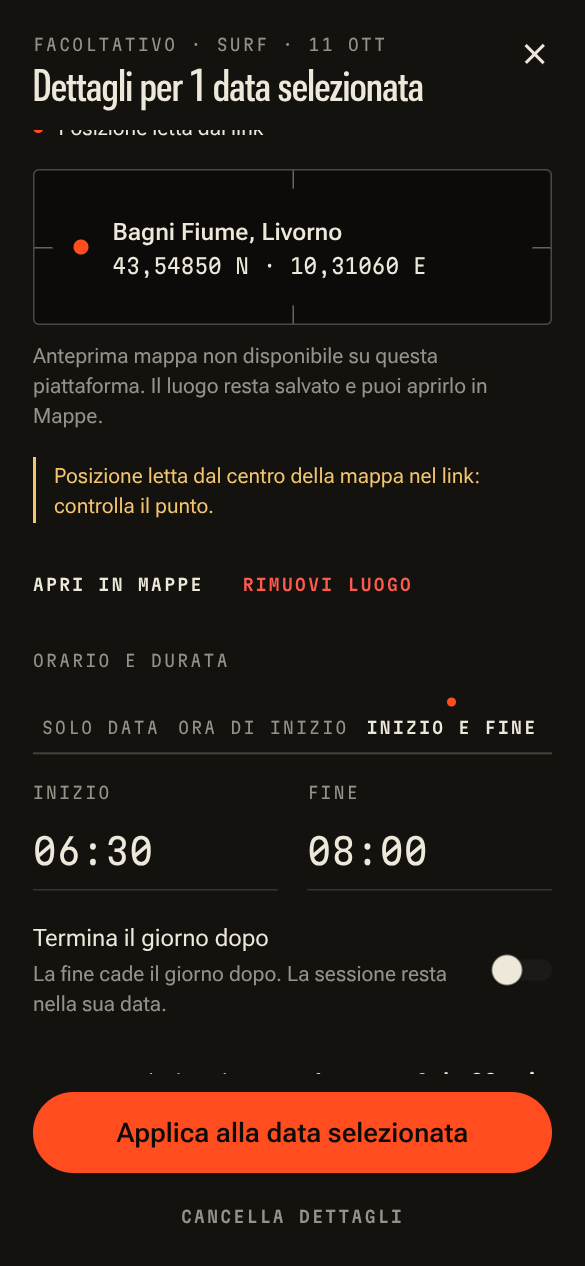
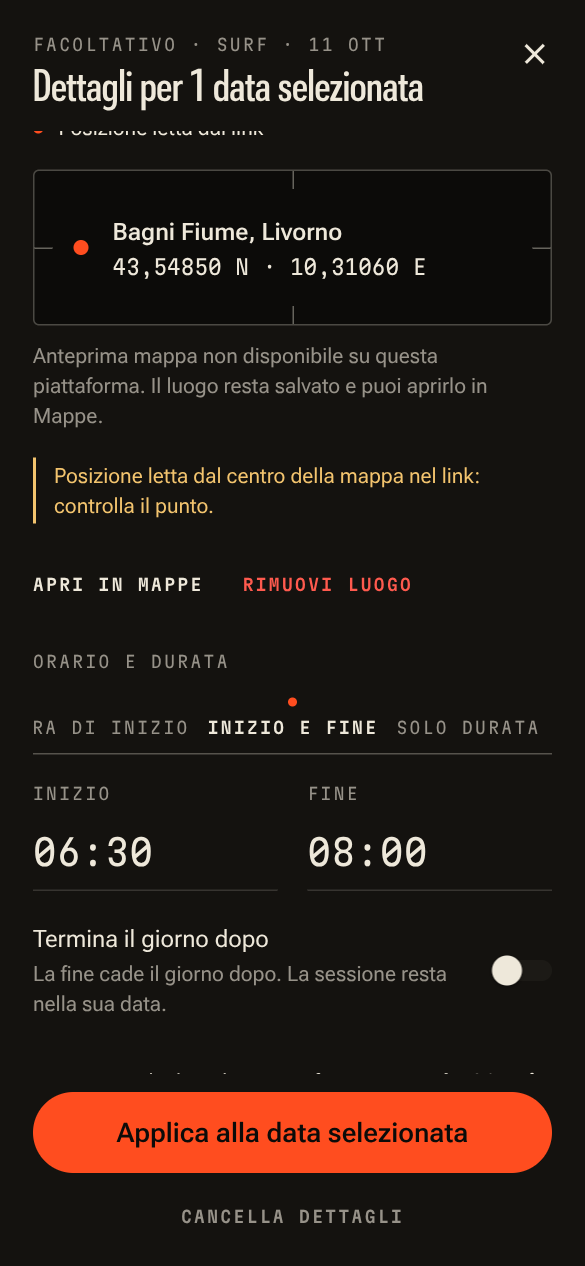
Sheets: fix content sliding under the header/footer on iOS; faster native smoke flows
Found by the first iOS Simulator smoke run: in iOS form sheets the scroll
content started at the sheet's top, under the eyebrow/title, and under the
footer. react-native-screens (Fabric) places a descendant ScrollView at the
sheet origin with the sheet size, regardless of the flex column.

- Sheet: header and footer are opaque overlays; the body fills the sheet and
  its content is padded by their measured heights (SheetInsets context), so
  that frame correction is a no-op on every platform.
- SheetScroll and the import review list pad by the same insets; the review
  filters now scroll with the list (ListHeaderComponent).
- Maestro flows: short settle timeout on taps (the water never settles, taps
  took 10-20 s and the save toast was gone), toast checks optional with the
  saved state asserted right after, Collega tapped only when shown.

Web e2e 30/30 and Jest 777/777 pass; README shots 07/08 regenerated.

Claude-Session: https://claude.ai/code/session_012cNXQNFzC9QbzbVb65tEsm

diff --git a/serie/src/sheets/calendar/ImportWizard.tsx b/serie/src/sheets/calendar/ImportWizard.tsx
@@ -34,7 +34,7 @@ import { newId, nowIso } from '@/platform/ids';
 import { useApp } from '@/state/store';
 import { afterCommit } from '@/state/hooks';
 import { createCategory, focusHistoryMonth, refreshAll, switchActivity } from '@/state/actions';
-import { Sheet, Section, Button, Field, Note, Segmented } from '@/ui/controls';
+import { Sheet, Section, Button, Field, Note, Segmented, WithSheetInsets } from '@/ui/controls';
 import { T } from '@/ui/T';
 import { activityColors, palette, surfaces } from '@/ui/theme';
 import { t } from '@/i18n/it';
@@ -328,59 +328,69 @@ export function ImportWizard() {
           </View>
         }
       >
-        <Steps at={4} of={STEPS} title={t.review} />
-        <View style={{ gap: 10 }}>
-          <Segmented
-            value={scope}
-            onChange={setScope}
-            options={[
-              { key: 'all', label: `Tutti ${scopeCount.all}` },
-              { key: 'new', label: `Nuovi ${scopeCount.new}` },
-              { key: 'review', label: `Da verificare ${scopeCount.review}` },
-              { key: 'excluded', label: `Esclusi ${scopeCount.excluded}` },
-            ]}
-            testID="import-scope"
-          />
-          <View style={styles.countRow}>
-            <T variant="dataStrong" color={S.fg} testID="import-count" accessibilityLiveRegion="polite">
-              {t.selectedCount(totalCounts.selected, totalCounts.selectable)}
-            </T>
-            <Pressable
-              onPress={() => setSelection((s) => (allSelected ? deselectAll(items, s, SCOPES[scope]) : selectAll(items, s, SCOPES[scope])))}
-              disabled={!counts.selectable}
-              accessibilityRole="button"
-              accessibilityLabel={allSelected ? `Deseleziona tutti quelli ${scopeName} (${counts.selectable})` : `Seleziona tutti quelli ${scopeName} (${counts.selectable})`}
-              style={styles.linkBtn}
-              testID="import-select-all"
-            >
-              <T variant="label" color={counts.selectable ? palette.flare : S.faint}>
-                {allSelected ? `DESELEZIONA ${scopeName.toUpperCase()}` : `SELEZIONA ${scopeName.toUpperCase()}`} ({counts.selectable})
-              </T>
-            </Pressable>
-          </View>
-        </View>
-        <FlatList
-          data={visible}
-          keyExtractor={(i) => i.key}
-          style={{ flex: 1, marginHorizontal: -4 }}
-          contentContainerStyle={{ paddingBottom: 24, paddingHorizontal: 4 }}
-          initialNumToRender={14}
-          windowSize={9}
-          ListEmptyComponent={
-            <Note>{items.length ? 'Nessun evento in questo gruppo.' : 'Nessun evento corrisponde: controlla calendari, intervallo e filtri.'}</Note>
-          }
-          renderItem={({ item }) => (
-            <ReviewRow
-              item={item}
-              on={selection.has(item.key)}
-              open={expanded === item.key}
-              color={category?.color ?? palette.flare}
-              matched={item.matchedSessionId ? (sessionById.get(item.matchedSessionId) ?? null) : null}
-              onToggle={() => setSelection((s) => toggleSelected(items, s, item.key))}
-              onExpand={() => setExpanded((k) => (k === item.key ? null : item.key))}
+        {/* the filters scroll with the list: in a form sheet the list must fill the sheet (see Sheet) */}
+        <WithSheetInsets>
+          {(pads) => (
+            <FlatList
+              data={visible}
+              keyExtractor={(i) => i.key}
+              style={{ flex: 1, marginHorizontal: -4 }}
+              contentContainerStyle={{ paddingTop: pads.top + 4, paddingBottom: pads.bottom + 24, paddingHorizontal: 4 }}
+              scrollIndicatorInsets={{ top: pads.top, bottom: pads.bottom }}
+              ListHeaderComponent={
+                <View style={{ gap: 22, paddingBottom: 22 }}>
+                  <Steps at={4} of={STEPS} title={t.review} />
+                  <View style={{ gap: 10 }}>
+                    <Segmented
+                      value={scope}
+                      onChange={setScope}
+                      options={[
+                        { key: 'all', label: `Tutti ${scopeCount.all}` },
+                        { key: 'new', label: `Nuovi ${scopeCount.new}` },
+                        { key: 'review', label: `Da verificare ${scopeCount.review}` },
+                        { key: 'excluded', label: `Esclusi ${scopeCount.excluded}` },
+                      ]}
+                      testID="import-scope"
+                    />
+                    <View style={styles.countRow}>
+                      <T variant="dataStrong" color={S.fg} testID="import-count" accessibilityLiveRegion="polite">
+                        {t.selectedCount(totalCounts.selected, totalCounts.selectable)}
+                      </T>
+                      <Pressable
+                        onPress={() => setSelection((s) => (allSelected ? deselectAll(items, s, SCOPES[scope]) : selectAll(items, s, SCOPES[scope])))}
+                        disabled={!counts.selectable}
+                        accessibilityRole="button"
+                        accessibilityLabel={allSelected ? `Deseleziona tutti quelli ${scopeName} (${counts.selectable})` : `Seleziona tutti quelli ${scopeName} (${counts.selectable})`}
+                        style={styles.linkBtn}
+                        testID="import-select-all"
+                      >
+                        <T variant="label" color={counts.selectable ? palette.flare : S.faint}>
+                          {allSelected ? `DESELEZIONA ${scopeName.toUpperCase()}` : `SELEZIONA ${scopeName.toUpperCase()}`} ({counts.selectable})
+                        </T>
+                      </Pressable>
+                    </View>
+                  </View>
+                </View>
+              }
+              initialNumToRender={14}
+              windowSize={9}
+              ListEmptyComponent={
+                <Note>{items.length ? 'Nessun evento in questo gruppo.' : 'Nessun evento corrisponde: controlla calendari, intervallo e filtri.'}</Note>
+              }
+              renderItem={({ item }) => (
+                <ReviewRow
+                  item={item}
+                  on={selection.has(item.key)}
+                  open={expanded === item.key}
+                  color={category?.color ?? palette.flare}
+                  matched={item.matchedSessionId ? (sessionById.get(item.matchedSessionId) ?? null) : null}
+                  onToggle={() => setSelection((s) => toggleSelected(items, s, item.key))}
+                  onExpand={() => setExpanded((k) => (k === item.key ? null : item.key))}
+                />
+              )}
             />
           )}
-        />
+        </WithSheetInsets>
       </Sheet>
     );
   }

diff --git a/serie/src/ui/controls.tsx b/serie/src/ui/controls.tsx
@@ -4,7 +4,7 @@
  * with the film's primitives: hairlines, mono labels, flare for the one
  * primary action, and ≥44 pt touch targets.
  */
-import { type ReactNode, useState } from 'react';
+import { createContext, type ReactNode, useContext, useState } from 'react';
 import { Platform, Pressable, ScrollView, StyleSheet, Switch, TextInput, View, type TextInputProps, type ViewStyle } from 'react-native';
 import { useSafeAreaInsets } from 'react-native-safe-area-context';
 import { router } from 'expo-router';
@@ -17,6 +17,29 @@ const S = surfaces.night;
 // react-native-web colours the active thumb separately (teal by default)
 const WEB_SWITCH = (Platform.OS === 'web' ? { activeThumbColor: palette.foam } : {}) as object;
 
+/**
+ * Space the sheet's header and footer cover, for bodies that scroll themselves
+ * (`<Sheet scroll={false}>`): pad the scroll content by these, never the frame.
+ */
+const SheetInsets = createContext({ top: 0, bottom: 0 });
+export const useSheetInsets = () => useContext(SheetInsets);
+/** The same insets for a list rendered by the sheet's own parent component. */
+export function WithSheetInsets({ children }: { children: (pads: { top: number; bottom: number }) => ReactNode }) {
+  return children(useSheetInsets());
+}
+
+// first-frame guess (eyebrow + one-line heading); replaced by the measured height
+const HEAD_GUESS = 92;
+
+/**
+ * Header and footer are opaque overlays and the body fills the whole sheet,
+ * with its content padded by their measured heights. On iOS form sheets,
+ * react-native-screens (Fabric) places a descendant ScrollView at the sheet's
+ * origin with the sheet's size, whatever the flex layout says: with a header
+ * above it in a column, the content slid under the header and the footer
+ * (seen on the iOS Simulator). Filling the sheet on purpose makes that frame
+ * correction a no-op, on every platform.
+ */
 export function Sheet({
   title,
   eyebrow,
@@ -38,33 +61,50 @@ export function Sheet({
   testID?: string;
 }) {
   const insets = useSafeAreaInsets();
+  const [headH, setHeadH] = useState(HEAD_GUESS);
+  const [footH, setFootH] = useState(0);
   const close = onClose ?? (() => (router.canGoBack() ? router.back() : router.replace('/')));
-  const body = <View style={[{ paddingHorizontal: space.gutter, paddingBottom: 32, gap: 22 }, !scroll && { flex: 1, paddingBottom: 0 }]}>{children}</View>;
+  const bottomInset = Math.max(insets.bottom, 12);
+  const pads = { top: headH, bottom: footer ? footH : bottomInset };
   return (
-    <View style={[styles.sheet, { paddingBottom: Math.max(insets.bottom, 12) }]} testID={testID}>
-      <View style={styles.sheetHead}>
-        <View style={{ flex: 1, gap: 4 }}>
-          {eyebrow ? (
-            <T variant="label" color={S.mute}>
-              {eyebrow}
+    <View style={styles.sheet} testID={testID}>
+      <SheetInsets.Provider value={pads}>
+        {/* first in the tree for VoiceOver; zIndex keeps it above the body */}
+        <View style={[styles.sheetHead, styles.overlay, { top: 0 }]} onLayout={(e) => setHeadH(Math.round(e.nativeEvent.layout.height))}>
+          <View style={{ flex: 1, gap: 4 }}>
+            {eyebrow ? (
+              <T variant="label" color={S.mute}>
+                {eyebrow}
+              </T>
+            ) : null}
+            <T variant="heading" color={S.fg} accessibilityRole="header">
+              {title}
             </T>
-          ) : null}
-          <T variant="heading" color={S.fg} accessibilityRole="header">
-            {title}
-          </T>
+          </View>
+          <Pressable onPress={close} accessibilityRole="button" accessibilityLabel={t.close} style={styles.closeBtn} hitSlop={8} testID="sheet-close">
+            <Close color={S.fg} />
+          </Pressable>
         </View>
-        <Pressable onPress={close} accessibilityRole="button" accessibilityLabel={t.close} style={styles.closeBtn} hitSlop={8} testID="sheet-close">
-          <Close color={S.fg} />
-        </Pressable>
-      </View>
-      {scroll ? (
-        <ScrollView keyboardShouldPersistTaps="handled" automaticallyAdjustKeyboardInsets={keyboardInsets} keyboardDismissMode="interactive" contentContainerStyle={{ paddingTop: 4 }}>
-          {body}
-        </ScrollView>
-      ) : (
-        <View style={{ flex: 1 }}>{body}</View>
-      )}
-      {footer ? <View style={styles.footer}>{footer}</View> : null}
+        {scroll ? (
+          <ScrollView
+            style={StyleSheet.absoluteFill}
+            keyboardShouldPersistTaps="handled"
+            automaticallyAdjustKeyboardInsets={keyboardInsets}
+            keyboardDismissMode="interactive"
+            scrollIndicatorInsets={{ top: pads.top, bottom: pads.bottom }}
+            contentContainerStyle={{ paddingHorizontal: space.gutter, paddingTop: pads.top + 4, paddingBottom: pads.bottom + 32, gap: 22 }}
+          >
+            {children}
+          </ScrollView>
+        ) : (
+          <View style={[StyleSheet.absoluteFill, { paddingHorizontal: space.gutter }]}>{children}</View>
+        )}
+        {footer ? (
+          <View style={[styles.footer, styles.overlay, { bottom: 0, paddingBottom: bottomInset }]} onLayout={(e) => setFootH(Math.round(e.nativeEvent.layout.height))}>
+            {footer}
+          </View>
+        ) : null}
+      </SheetInsets.Provider>
     </View>
   );
 }
@@ -320,6 +360,7 @@ const styles = StyleSheet.create({
     marginTop: -8,
   },
   footer: { paddingHorizontal: space.gutter, paddingTop: 12, gap: 10 },
+  overlay: { position: 'absolute', left: 0, right: 0, zIndex: 1, backgroundColor: palette.ink2 },
   sectionHead: {
     flexDirection: 'row',
     justifyContent: 'space-between',

diff --git a/serie/src/sheets/session/SheetScroll.tsx b/serie/src/sheets/session/SheetScroll.tsx
@@ -3,18 +3,22 @@
  * Same rhythm as the shared Sheet body, plus keyboard handling: on iOS the
  * content inset follows the keyboard (automaticallyAdjustKeyboardInsets), so
  * the timing fields at the bottom of a form sheet are never hidden behind it;
- * dragging the content dismisses the keyboard interactively.
+ * dragging the content dismisses the keyboard interactively. The sheet's header
+ * and footer overlay this scroll view, so its content is padded by their height.
  */
 import { forwardRef, type ReactNode } from 'react';
 import { ScrollView } from 'react-native';
 import { space } from '@/ui/theme';
+import { useSheetInsets } from '@/ui/controls';
 
 export const SheetScroll = forwardRef<ScrollView, { children: ReactNode; testID?: string }>(function SheetScroll({ children, testID }, ref) {
+  const pads = useSheetInsets();
   return (
     <ScrollView
       ref={ref}
       style={{ flex: 1, marginHorizontal: -space.gutter }}
-      contentContainerStyle={{ paddingHorizontal: space.gutter, paddingTop: 4, paddingBottom: 32, gap: 22 }}
+      contentContainerStyle={{ paddingHorizontal: space.gutter, paddingTop: pads.top + 4, paddingBottom: pads.bottom + 32, gap: 22 }}
+      scrollIndicatorInsets={{ top: pads.top, bottom: pads.bottom }}
       keyboardShouldPersistTaps="handled"
       keyboardDismissMode="interactive"
       automaticallyAdjustKeyboardInsets
